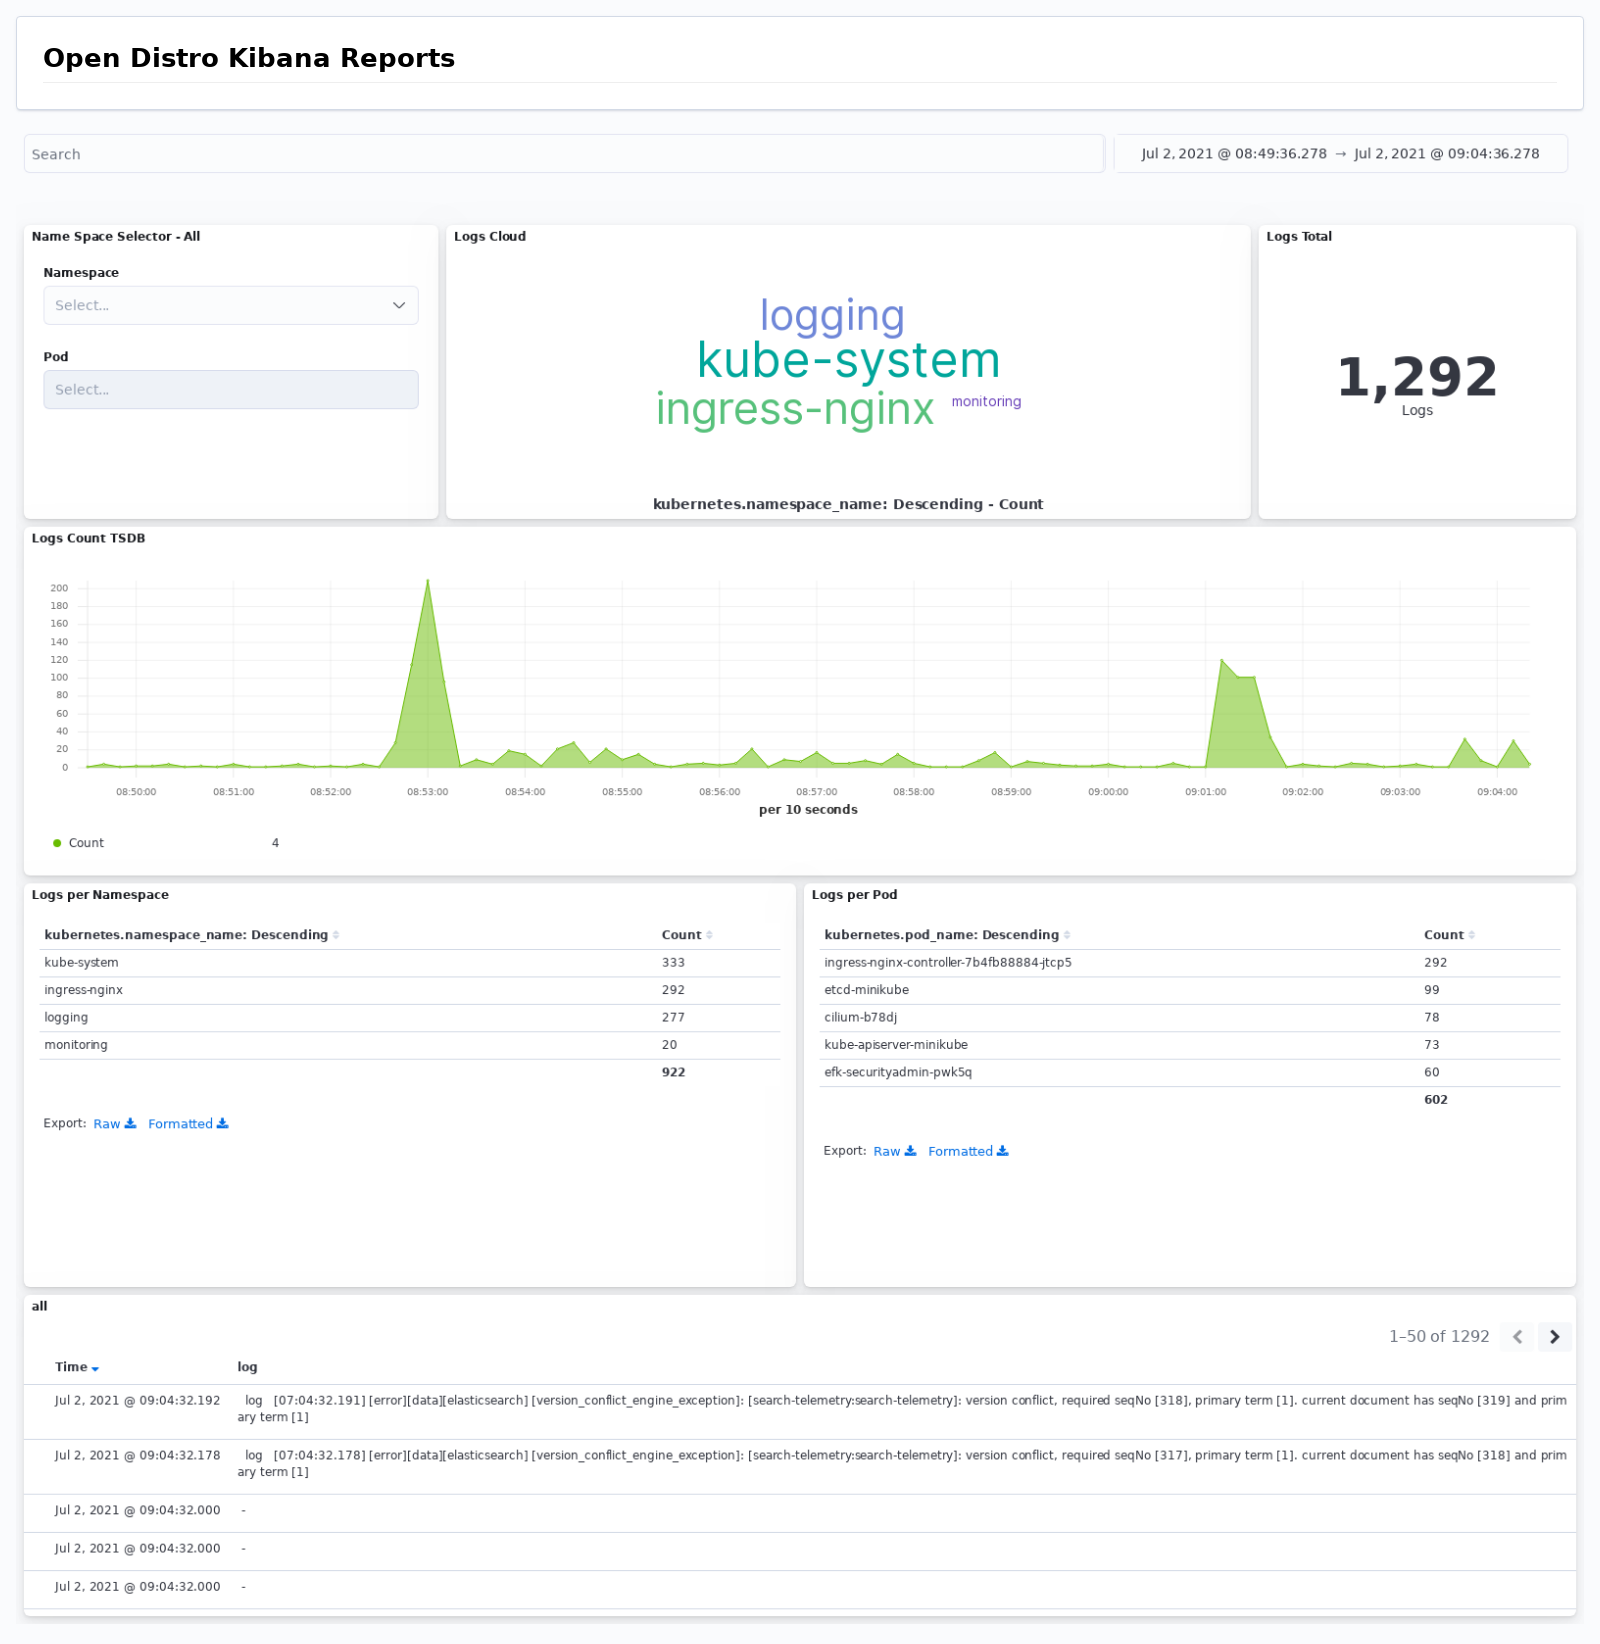
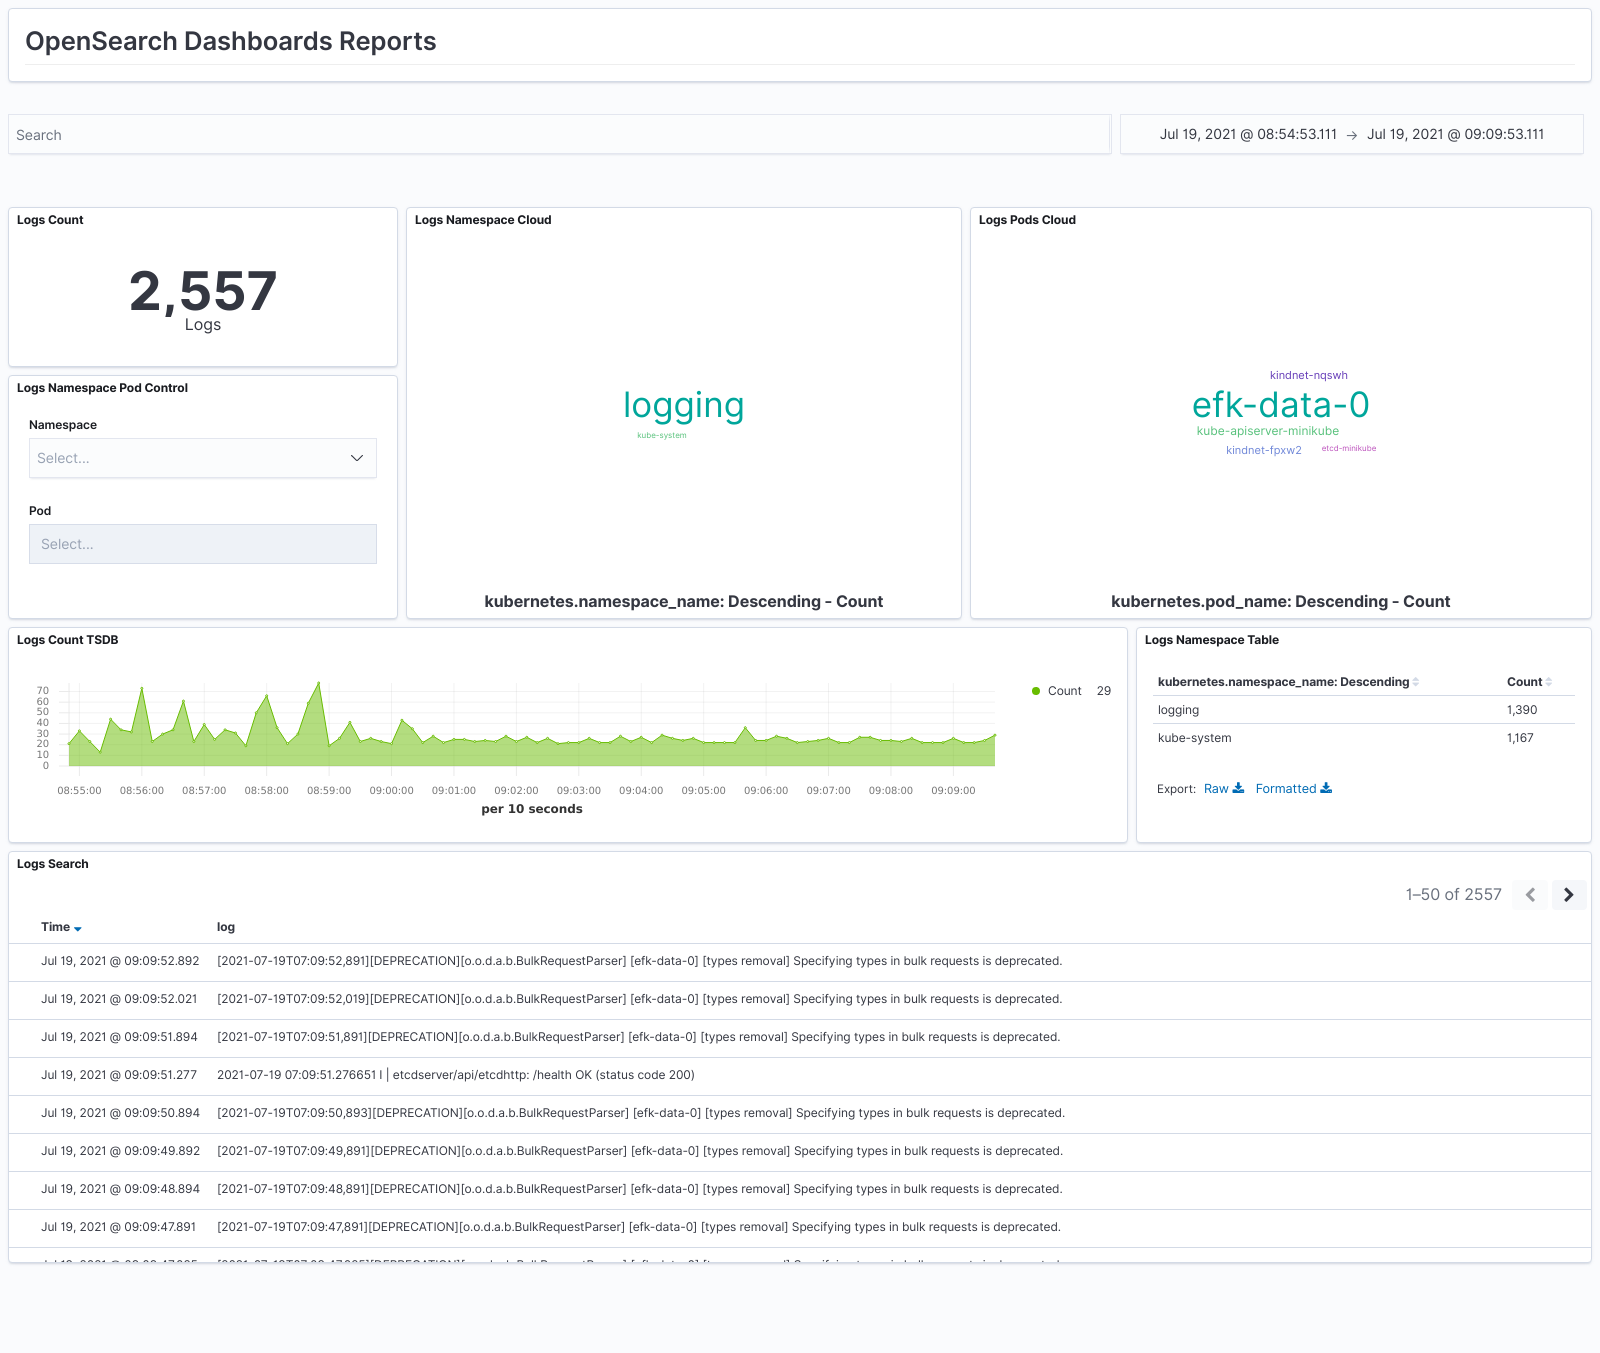
release 2.0.0

diff --git a/README.md b/README.md
@@ -1,29 +1,29 @@
 [![Artifact Hub](https://img.shields.io/endpoint?url=https://artifacthub.io/badge/repository/kubernetes-logging)](https://artifacthub.io/packages/search?repo=kubernetes-logging)
-# kubernetes-logging-helm
+# kubernetes-logging-helm using [Opensearch](https://opensearch.org)
 
 This helm chart deploys a scalable containerized logging stack with the main purpose of enabling log observability for kubernetes applications. The design supports both local development use cases such as minikube deployments up to a scaled production scenarios. The latter scenarios leverage kafka message broker, completely decoupling in this way,  the log generation and log indexing functions. 
 
-The helm chart supports elasticsearch in various configurations starting from a single node setup usable for local development, to a scaled multi nodes elasticsearch deployment battle proven in production scenarios. In the latter case there are 3 types of nodes (coordination, data and master) where each of those can be both horizontally and vertically scaled depending on the load and shards replication demands. 
+The helm chart supports opensearch in various configurations starting from a single node setup usable for local development, to a scaled multi nodes opensearch deployment suitable for production environment. In the latter case there are 3 types of nodes (coordination, data and master) where each of those can be both horizontally and vertically scaled depending on the load and shards replication demands. 
 
-Finally this helm chart provides index templates management in elasticsearch and index pattern management in kibana. An initial predefined set of dashboards is also provided for illustration purposes.
+Finally this helm chart provides index templates management in opensearch and index pattern management in opensearch-dashboards. An initial predefined set of dashboards is also provided for illustration purposes.
 
 ![Kubernetes Logging Stack](images/k8s-logging-stack.jpg)
 
-Here is a [setup example](https://github.com/nickytd/kubernetes-logging-helm/tree/master/examples) for local development and testing based on [minikube](https://minikube.sigs.k8s.io)
+Here is a [setup example](https://github.com/nickytd/kubernetes-logging-helm/tree/main/examples) for local development and testing based on [minikube](https://minikube.sigs.k8s.io)
 
-[Single node setup example](https://github.com/nickytd/kubernetes-logging-helm/tree/master/examples/k8s-logging-minikube-values.yaml)
+[Single node setup example](https://github.com/nickytd/kubernetes-logging-helm/blob/b816650603e1eb970b4352698a89cf5671ba8969/examples/single-node-setup.yaml)
 
 Provisioned components:
- 1. Single Elasticsearch type node
+ 1. Single opensearch type node
  1. Fluent-Bit instance per kubernetes node
  1. (optional elastic-exporter)
 
-[Scaled multi node setup example](https://github.com/nickytd/kubernetes-logging-helm/tree/master/examples/k8s-logging-scaled-minikube-values.yaml). This example requires a kubernetes cluster with at least two nodes, demonstrating pod anti affinity configuration for the statefulsets and pod schedule spread configurations for the deployments
+[Scaled multi node setup example](https://github.com/nickytd/kubernetes-logging-helm/blob/b816650603e1eb970b4352698a89cf5671ba8969/examples/multi-node-ha-setup.yaml). This example requires a kubernetes cluster with at least two nodes, demonstrating pod anti affinity configuration for the statefulsets and pod schedule spread configurations for the deployments
 
 Provisioned components:
- 1. 2 Elastic coordination nodes
- 1. 2 Elastic master nodes
- 1. 2 Elastic data nodes
+ 1. 2 Opensearch coordination nodes
+ 1. 2 Opensearch master nodes
+ 1. 2 Opensearch data nodes
  1. Fluent-Bit instance per kubernetes node
  1. 2 Kafka brokers
  1. 2 Zookeeper instance
@@ -36,15 +36,12 @@ helm repo add logging https://nickytd.github.io/kubernetes-logging-helm
 helm repo update
 ```
 
-Following dashboards in Kibana are also provisioned for illustration purposes
+Following dashboards in Opensearch-Dashboards are also provisioned for illustration purposes
 
 Logs Stream Dashboard 
-![Logs Stream Dashboard](images/containers-dashboard.png)
+![Logs Stream Dashboard](images/containers-logs-dashboard.png)
 
 Systemd logs Dashboard
-![Systemd logs Dashboard](images/systemd-dashboard.png)
+![Systemd logs Dashboard](images/systemd-logs-dashboard.png)
 
-Nginx Access Logs Dashboard
-![Nginx Access Logs Dashboard](images/nginx-dashboard.png)
-
-Multi tenant layout is also supported in Kibana. This helm chart sets up a Developer tenant with the corresponding role having read/write permission in the corresponding tenant space.
+Multi tenant layout is also supported in Opensearch-Dashboards. This helm chart sets up a Developer tenant with the corresponding role having read/write permission in the corresponding tenant space.
